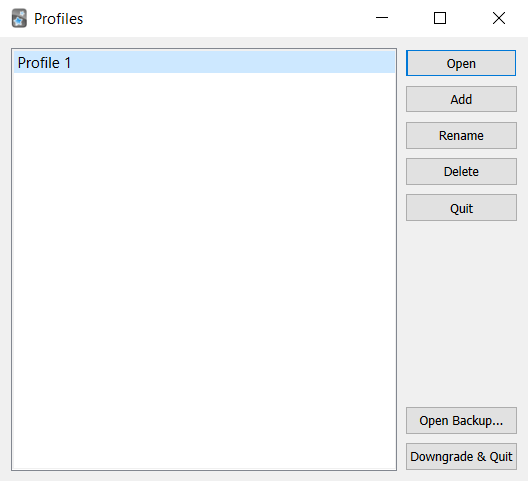
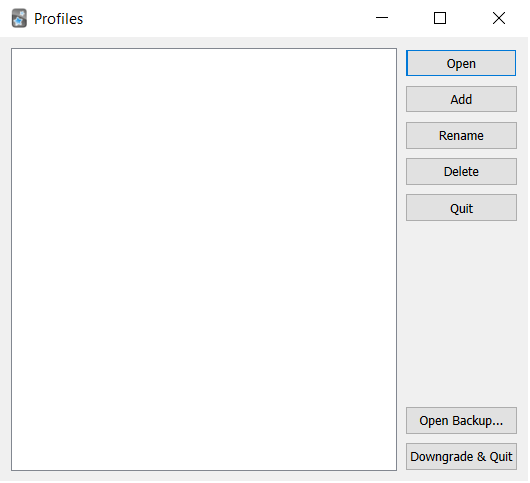
Add screenshots of new pages finish profile logic

Changed region(s): [[0.0, 0.0932, 0.7547, 0.1553]]

diff --git a/naturalnets/environments/anki/pages/profile_page.py b/naturalnets/environments/anki/pages/profile_page.py
@@ -1,15 +1,12 @@
-import random
-import string
 import numpy as np
 import os
-
 from naturalnets.environments.gui_app.bounding_box import BoundingBox
 from naturalnets.environments.gui_app.widgets.button import Button
 from naturalnets.environments.gui_app.page import Page
 from naturalnets.environments.gui_app.reward_element import RewardElement
-from naturalnets.environments.gui_app.utils import put_text
 from naturalnets.environments.anki.constants import IMAGES_PATH
 from naturalnets.environments.anki.profile import Profile,ProfileDatabase
+import cv2
 class ProfilePage(Page,RewardElement):
     
     STATE_LEN = 0
@@ -24,8 +21,6 @@ class ProfilePage(Page,RewardElement):
     OPEN_BACKUP_BB = BoundingBox(410, 410, 110, 26)
     DOWNGRADE_QUIT_BB = BoundingBox(410, 446, 110, 26)
     PROFILES_BB = BoundingBox(11, 48, 386, 423)
-    UP_BB = BoundingBox(374, 48, 19, 21)
-    DOWN_BB = BoundingBox(374, 447, 19, 21)
 
     #Profiles in the profiles_bb have the (heigth,width) (384,22)
 
@@ -47,6 +42,7 @@ class ProfilePage(Page,RewardElement):
         self.downgrade_popup = DowngradePopup()
         self.open_backup_popup = OpenBackupPopup()
 
+        self.open_button: Button = Button(self.OPEN_BB, self.open_button.switch_to_main_page)
         self.add_button: Button = Button(self.ADD_BB, self.add_profile_popup.open)
         self.rename_profile_button: Button = Button(self.RENAME_BB, self.rename_profile_popup.open)
         self.delete_button: Button = Button(self.DELETE_BB, self.delete_check_popup.open)
@@ -58,33 +54,6 @@ class ProfilePage(Page,RewardElement):
             [self.add_profile_popup,self.rename_profile_popup,self.at_least_one_profile_popup,
             self.delete_check_popup,self.downgrade_popup,self.open_backup_popup])
 
-    @property
-    def reward_template(self):
-        return {
-            "open_button": {
-                "opened": 0,
-            },
-            "add_button": {
-                "opened": 0,
-            },
-            "rename_button": {
-                "opened": 0,
-            },
-            "delete_button": {
-                "opened": 0,
-            },
-            "quit_button": {
-                "opened": 0,
-            },
-            "open_backup_button": {
-                "opened": 0,
-            },
-            "downgrade_button": {
-                "opened": 0,
-            },
-        }
-
-
     def reset(self):
         self.add_profile_popup.close()
         self.rename_profile_popup.close()
@@ -94,17 +63,25 @@ class ProfilePage(Page,RewardElement):
         self.open_backup_popup.close()
         self.profile_database.reset_profiles()
 
-    def scroll_down(self):
-        if self.profile_database.is_scrollable and self.profile_database.scrolled_amount + 1 <= self.profile_database.profiles_length:
-            self.profile_database.scrolled_amount += 1
-    
-    def scroll_up(self):
-        if self.profile_database.is_scrollable and self.profile_database.scrolled_amount > 0:
-            self.profile_database.scrolled_amount -= 1
+    def handle_click(self, click_position: np.ndarray) -> None:
+        if(self.add_button.is_clicked_by(click_position)):
+            self.add_button.handle_click(click_position)
+        elif(self.rename_profile_button.is_clicked_by(click_position)):
+            self.rename_profile_button.handle_click(click_position)
+        elif(self.delete_button.is_clicked_by(click_position)):
+            self.delete_button.handle_click(click_position)
+        elif(self.quit_button.is_clicked_by(click_position)):
+            self.quit_button.handle_click(click_position)
+        elif(self.open_backup_button.is_clicked_by(click_position)):
+            self.open_backup_button.handle_click(click_position)
+        elif(self.downgrade_quit_button.is_clicked_by(click_position)):
+            self.downgrade_quit_button.is_clicked_by(click_position)
+        elif(self.PROFILES_BB.is_point_inside(click_position)):
+            ProfileDatabase().change_active_profile(click_position)
 
 
 class AddProfilePopup(Page, RewardElement):
-    
+
     STATE_LEN = 1
     BOUNDING_BOX = BoundingBox(12, 166, 501, 149)
     IMG_PATH = os.path.join(IMAGES_PATH, "add_profile_popup.png")
@@ -115,9 +92,10 @@ class AddProfilePopup(Page, RewardElement):
     def __init__(self):
         Page.__init__(self, self.STATE_LEN, self.BOUNDING_BOX, self.IMG_PATH)
         RewardElement.__init__(self)
+        self.open()
         self.cancel_button: Button = Button(self.CANCEL_BUTTON_BB, self.close)
         self.exit_button: Button = Button(self.EXIT_BUTTON_BB,self.close)
-        self.ok_button: Button = Button(self.OK_BUTTON_BB, ProfilePage().add_profile)
+        self.ok_button: Button = Button(self.OK_BUTTON_BB, ProfileDatabase().add_profile)
     
     @property
     def reward_template(self):
@@ -156,9 +134,10 @@ class RenameProfilePopup(Page, RewardElement):
     def __init__(self):
         Page.__init__(self, self.STATE_LEN, self.BOUNDING_BOX, self.IMG_PATH)
         RewardElement.__init__(self)
+        self.open()
         self.cancel_button: Button = Button(self.CANCEL_BUTTON_BB, self.close)
         self.exit_button: Button = Button(self.EXIT_BUTTON_BB,self.close)
-        self.ok_button: Button = Button(self.OK_BUTTON_BB, ProfilePage().rename_profile)
+        self.ok_button: Button = Button(self.OK_BUTTON_BB, ProfileDatabase().rename_profile)
 
     @property
     def reward_template(self):
@@ -196,8 +175,9 @@ class AtLeastOneProfilePopup(Page, RewardElement):
     def __init__(self):
         Page.__init__(self, self.STATE_LEN, self.BOUNDING_BOX, self.IMG_PATH)
         RewardElement.__init__(self)
+        self.open()
         self.exit_button: Button = Button(self.EXIT_BUTTON_BB,self.close)
-        self.ok_button: Button = Button(self.OK_BUTTON_BB,ProfilePage().rename_profile)
+        self.ok_button: Button = Button(self.OK_BUTTON_BB,self.close)
 
     @property
     def reward_template(self):
@@ -235,7 +215,8 @@ class DeleteCheckPopup(Page, RewardElement):
     def __init__(self):
         Page.__init__(self, self.STATE_LEN, self.BOUNDING_BOX, self.IMG_PATH)
         RewardElement.__init__(self)
-        self.yes_button: Button = Button(self.YES_BUTTON_BB,ProfilePage().delete_profile)
+        self.open()
+        self.yes_button: Button = Button(self.YES_BUTTON_BB,ProfileDatabase().delete_profile)
         self.no_button: Button = Button(self.NO_BUTTON_BB,self.close)
         self.exit_button: Button = Button(self.EXIT_BUTTON_BB,self.close)
 
@@ -276,6 +257,7 @@ class DowngradePopup(Page, RewardElement):
     def __init__(self):
         Page.__init__(self, self.STATE_LEN, self.BOUNDING_BOX, self.IMG_PATH)
         RewardElement.__init__(self)
+        self.open()
         self.ok_button: Button = Button(self.OK_BUTTON_BB, self.close)
         self.exit_button: Button = Button(self.EXIT_BUTTON_BB, self.close)
 
@@ -298,6 +280,7 @@ class DowngradePopup(Page, RewardElement):
     def close(self):
         self.get_state()[0] = 0
         self.register_selected_reward(["popup", "close"])
+        ProfilePage().reset()
 
     def is_open(self) -> int:
         return self.get_state()[0]
@@ -314,6 +297,7 @@ class OpenBackupPopup(Page, RewardElement):
     def __init__(self):
         Page.__init__(self, self.STATE_LEN, self.BOUNDING_BOX, self.IMG_PATH)
         RewardElement.__init__(self)
+        self.open()
         self.yes_button: Button = Button(self.YES_BUTTON_BB, self.reset_backup)
         self.no_button: Button = Button(self.NO_BUTTON_BB, self.close)
         self.exit_button: Button = Button(self.EXIT_BUTTON_BB, self.close)

diff --git a/naturalnets/environments/anki/profile.py b/naturalnets/environments/anki/profile.py
@@ -1,6 +1,8 @@
+import numpy as np
 from naturalnets.environments.anki.deck import Deck, DeckOption
 import random
 import string
+from naturalnets.environments.gui_app.utils import put_text
 
 class Profile():
     
@@ -55,14 +57,18 @@ class ProfileDatabase():
     def __init__(self):
         self.profiles = [Profile("Profile 1")]
         self.active_profile = self.profiles[0]
-        self.scrolled_amount = 0
+        self.current_index = 0
     
     def add_profile(self) -> None:
         profile_name: str = ''.join(random.choices(string.ascii_lowercase, k=5))
-        if not(self.is_included(Profile(profile_name),self.profiles)) :
-            self.profiles.insert(Profile(profile_name))
-        else:
+        if self.is_included(Profile(profile_name),self.profiles):
             print("Name exists!")
+            return
+        elif self.profiles_length <= 18:
+            print("Max length is reached!")
+            return
+        else:
+            self.profiles.insert(Profile(profile_name))
 
     def rename_profile(self, profile: Profile) -> None:
         new_name: str = ''.join(random.choices(string.ascii_lowercase, k=5))
@@ -85,15 +91,15 @@ class ProfileDatabase():
                 return True      
         return False
 
-    def change_active_profile(self,index:int):
-        if index < len(self.profiles) and index >= 0 :
+    def change_active_profile(self, click_position:np.ndarray):
+        ##Calculate the clicked profile with size (384,22)
+        index: int = click_position[1]/22
+        if index < self.profiles_length and index >= 0 :
             self.active_profile = self.profiles[index]
+            self.current_index = index
         else:
             print("Index out of bounds")
     
     def reset_profiles(self):
         self.profiles = [Profile("Profile 1")]
         self.active_profile = self.profiles[0]
-    
-    def is_scrollable(self):
-        return self.profiles_length >= 19

diff --git a/naturalnets/environments/anki/pages/options_page.py b/naturalnets/environments/anki/pages/options_page.py
@@ -1,0 +1,6 @@
+from naturalnets.environments.gui_app.page import Page
+from naturalnets.environments.gui_app.reward_element import RewardElement
+
+
+class OptionsPage(Page,RewardElement):
+    ""
